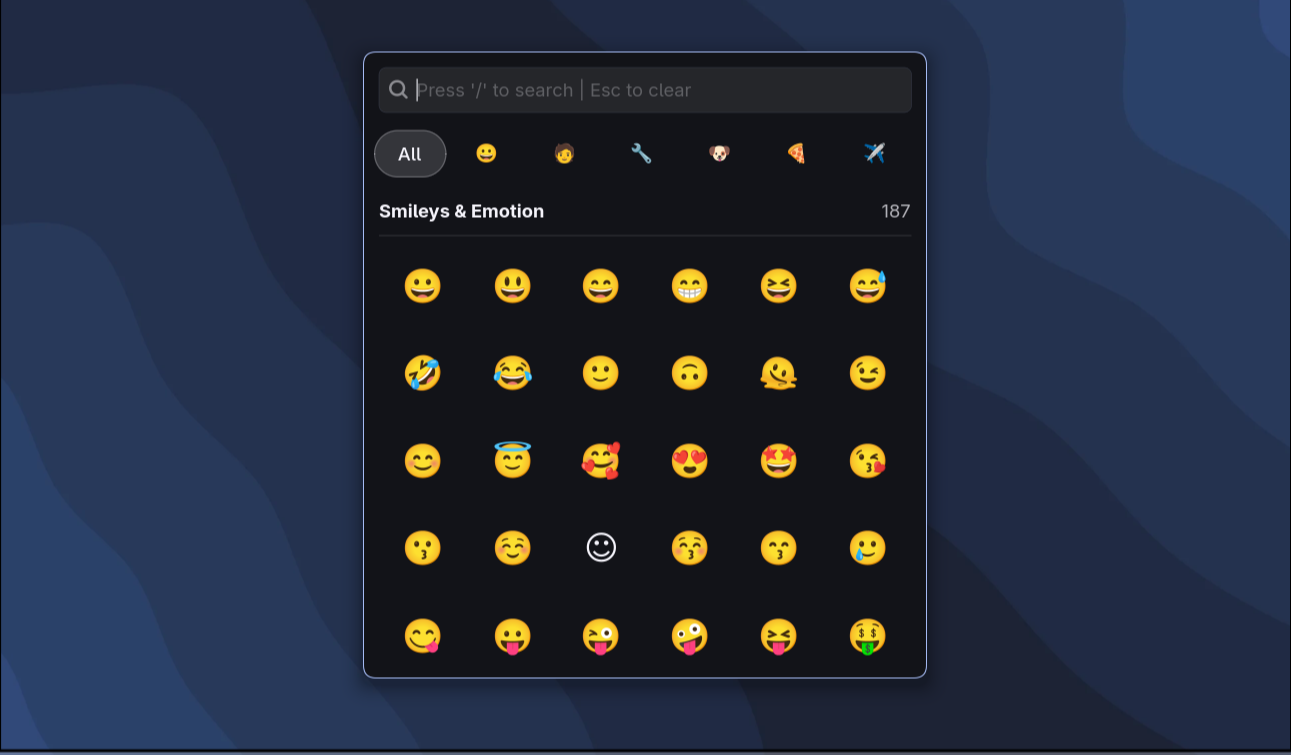
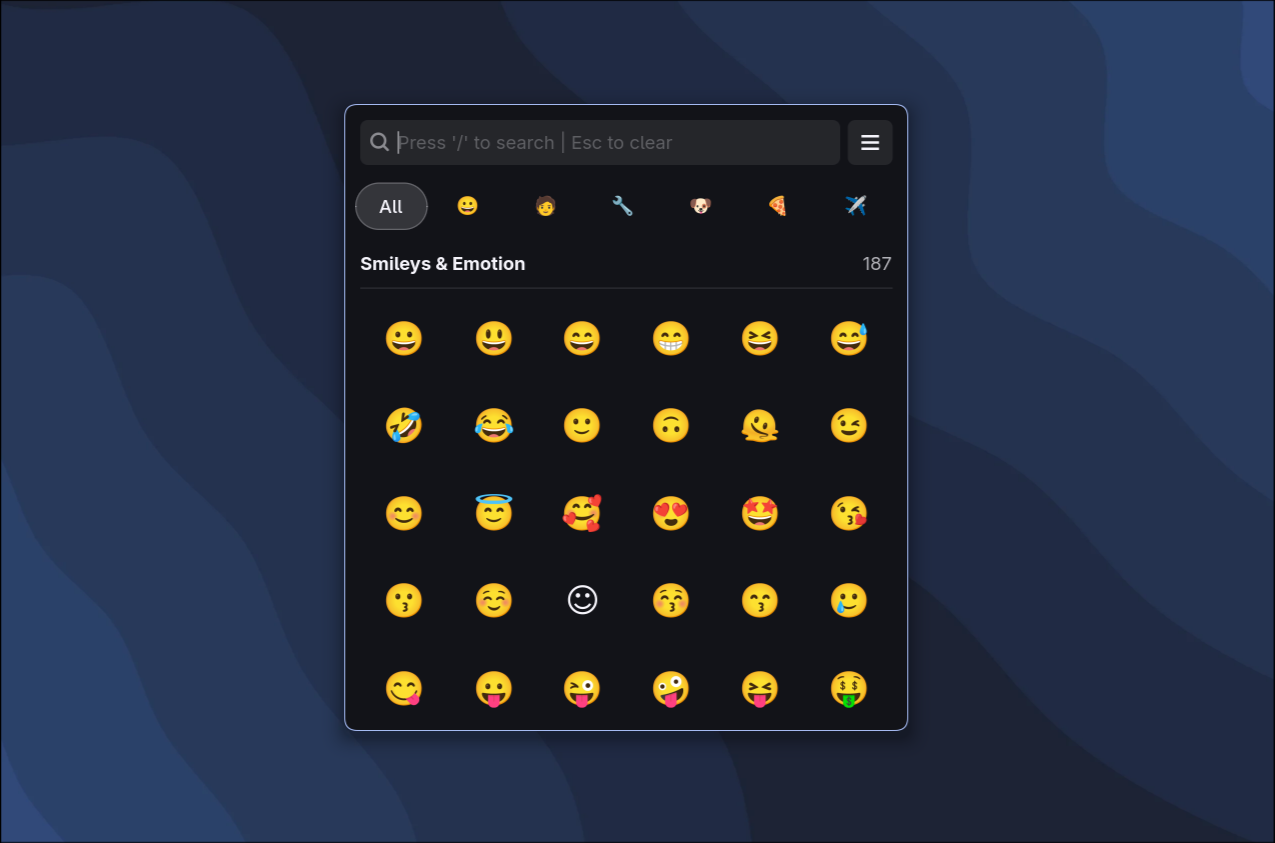
update(readme): with new features and demo image

diff --git a/README.md b/README.md
@@ -3,7 +3,7 @@
 
 ### A fast emoji and Unicode symbol picker for Linux built with GTK4 and Python.
 
-Browse, search, and copy emojis and Unicode symbols from a lightweight overlay window.
+Browse, search, and copy emojis, symbols, emoticons, arrows, currency signs, mathematical symbols, and more from a lightweight overlay window.
 
 ---
 
@@ -22,15 +22,19 @@ Browse, search, and copy emojis and Unicode symbols from a lightweight overlay w
 
 ## Features
 
-- Fast emoji and Unicode symbol search
-- Category filtering
-- Keyboard-first workflow
-- Instant clipboard copy
-- Lightweight overlay window
-- GTK4 + Libadwaita UI
-- Standalone binary builds via Nuitka
-
-
+* Fast emoji and Unicode symbol search
+* Search by name, keywords, aliases, and Unicode values
+* Sidebar navigation for multiple built-in collections
+  * Emojis
+  * Emoticons
+  * Arrows
+  * Mathematical symbols
+  * Currency symbols
+  * Special symbols
+  * Hieroglyphs
+* Category and subcategory browsing
+* Instant clipboard copy
+* Collection selection from the command line
 
 ## Installation
 
@@ -48,10 +52,22 @@ OR
 curl -fsSL https://raw.githubusercontent.com/pshycodr/omniglyph/main/scripts/install.sh | bash
 ```
 
-### Launch
+## Launch
 
 ```bash
 omniglyph
+```
+
+### Open a Specific Collection
+
+```bash
+omniglyph --emoji
+omniglyph --emoticons
+omniglyph --arrows
+omniglyph --math
+omniglyph --currency
+omniglyph --special
+omniglyph --hieroglyphs
 ```
 
 ## Building from Source
@@ -96,7 +112,6 @@ out/omniglyph.bin
 * uv
 * PyGObject
 * Nuitka
-
 
 ## Contributing
 